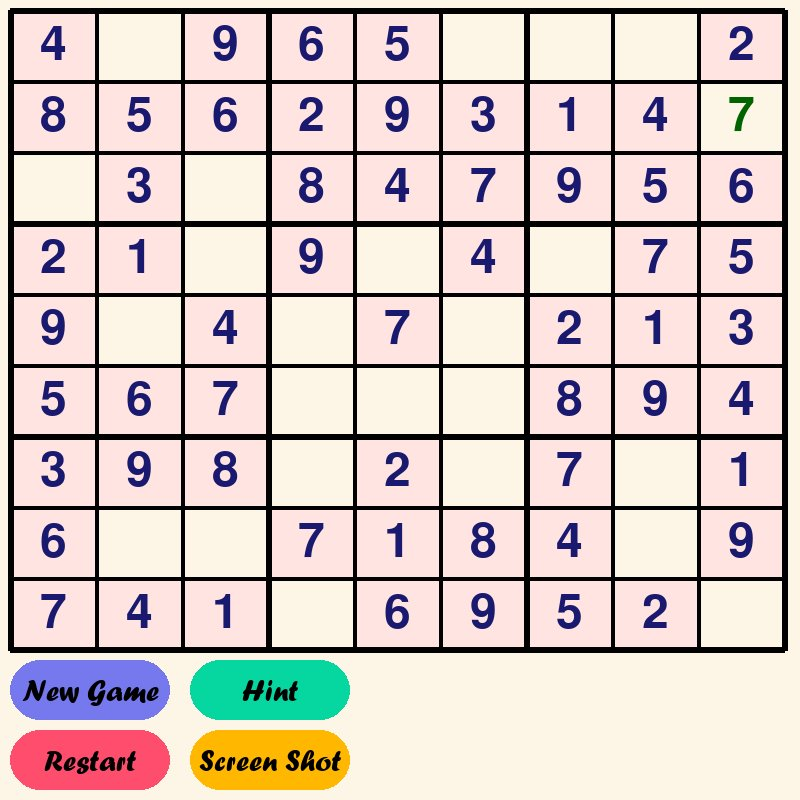
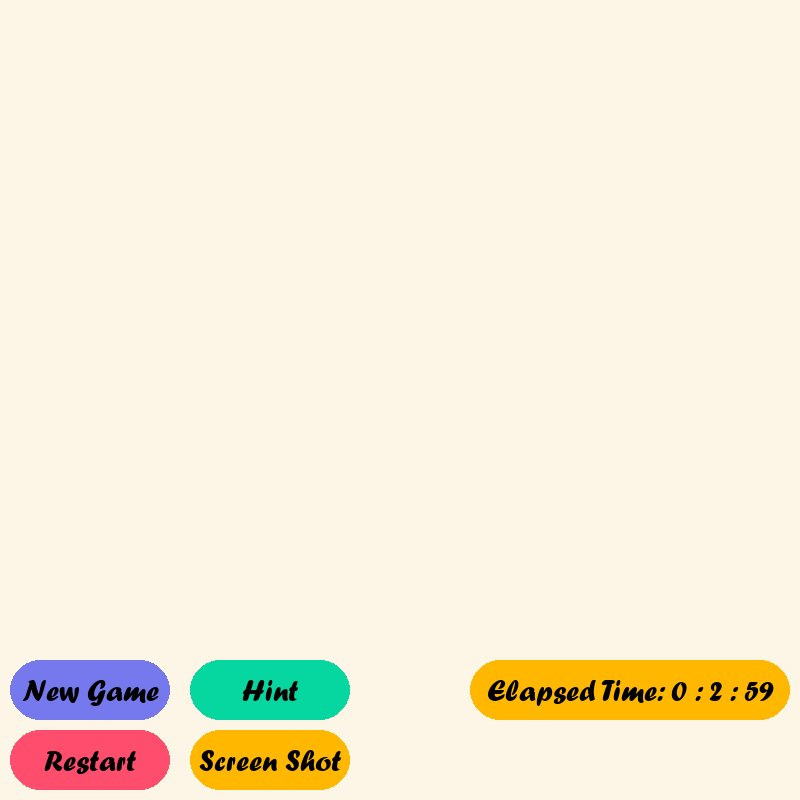
Elapsed Time added

Changed region(s): [[0.0, 0.0, 1.0, 0.9062]]

diff --git a/Button.py b/Button.py
@@ -1,4 +1,4 @@
-from time import sleep
+import time
 from unittest import runner
 import pygame
 from pygame.locals import *
@@ -33,6 +33,7 @@ screen.fill(background_color)
 pygame.display.update()
 
 # --------------------------- __NEW__ -------------------------- #
+start = time.time()  # NEWWWWWWWWWWWWWWWWWWWWWWWWWWWWWWWWWWWWWWWWWWWWWWWWWWWWWW
 Button_Border = 0
 Button_Width = int(Width / 5)
 Button_Height = int(Height * 3 / 40)
@@ -112,6 +113,25 @@ Screen_Shot = {
     "font": "FORTE.ttf",
     "font_size": 30,
 }
+Time_Elapsed = {  # NEWWWWWWWWWWWWWWWWWWWWWWWWWWWWWWWWWWWWWWWWWWWWWWWWWWWWWWWWWWW
+    "left": Width - Margin - Button_Border * 2 - Button_Width * 2,
+    "top": Height
+    - Margin
+    - Button_Border * 4
+    - Button_Height * 2
+    - Vertical_Space_Between_Buttons,
+    "width": 2 * Button_Width,
+    "height": Button_Height,
+    "border": Button_Border,
+    "color_inactive": "#2c6e49",
+    "color_active": "#",
+    "border_color": background_color,
+    "text": "",
+    "text_color_inactive": "#fefee3",
+    "text_color_active": "#",
+    "font": "FORTE.ttf",
+    "font_size": 30,
+}
 
 # --------------------------- __NEW__ -------------------------- #
 def draw_button(Button_Name, mouse_over=0):
@@ -154,9 +174,17 @@ def draw_button(Button_Name, mouse_over=0):
 
 
 # --------------------------- __NEW__ -------------------------- #
+
 running = True
 while running:
 
+    elapsed = round(time.time() - start)  # NEWWWWWWWWWWWWWWWWWWWWWWWWWWWWWWWW
+    Time_Elapsed[
+        "text"
+    ] = f"Elapsed Time: {(elapsed // 60)//60 } : {elapsed // 60 } : {elapsed % 60}"  # NEWWWWWWWWWWWWWWWWWWWWWWWWW
+    time_elapsed_btn = draw_button(
+        Time_Elapsed
+    )  # NewWWWWWWWWWWWWWWWWWWWWWWWWWWWWWWWWWWWWWWWWWWW
     new_game_btn = draw_button(New_Game)
     restart_game_btn = draw_button(Restart_Game)
     hint_btn = draw_button(Hint)
@@ -179,20 +207,20 @@ while running:
             if new_game_btn.collidepoint(pygame.mouse.get_pos()):
                 new_game_btn = draw_button(New_Game)
                 pygame.display.flip()
-                sleep(0.1)
+                time.sleep(0.1)
 
             elif restart_game_btn.collidepoint(pygame.mouse.get_pos()):
                 restart_game_btn = draw_button(Restart_Game)
                 pygame.display.flip()
-                sleep(0.1)
+                time.sleep(0.1)
             elif hint_btn.collidepoint(pygame.mouse.get_pos()):
                 hint_btn = draw_button(Hint)
                 pygame.display.flip()
-                sleep(0.1)
+                time.sleep(0.1)
             elif screen_shot_btn.collidepoint(pygame.mouse.get_pos()):
                 screen_shot_btn = draw_button(Screen_Shot)
                 pygame.display.flip()
-                sleep(0.1)
+                time.sleep(0.1)
                 pygame.image.save(screen, "ScreenShot.jpg")
 
     pygame.display.flip()

diff --git a/main_DanesH.py b/main_DanesH.py
@@ -1,4 +1,3 @@
-from turtle import color, pos
 import pygame
 import sys
 from dokusan import generators, renderers, solvers
@@ -110,7 +109,6 @@ Screen_Shot = {
 }
 
 # --------------------------- __NEW__ -------------------------- #
-
 
 def draw_button(Button_Name, screen,  mouse_over=0):
 
